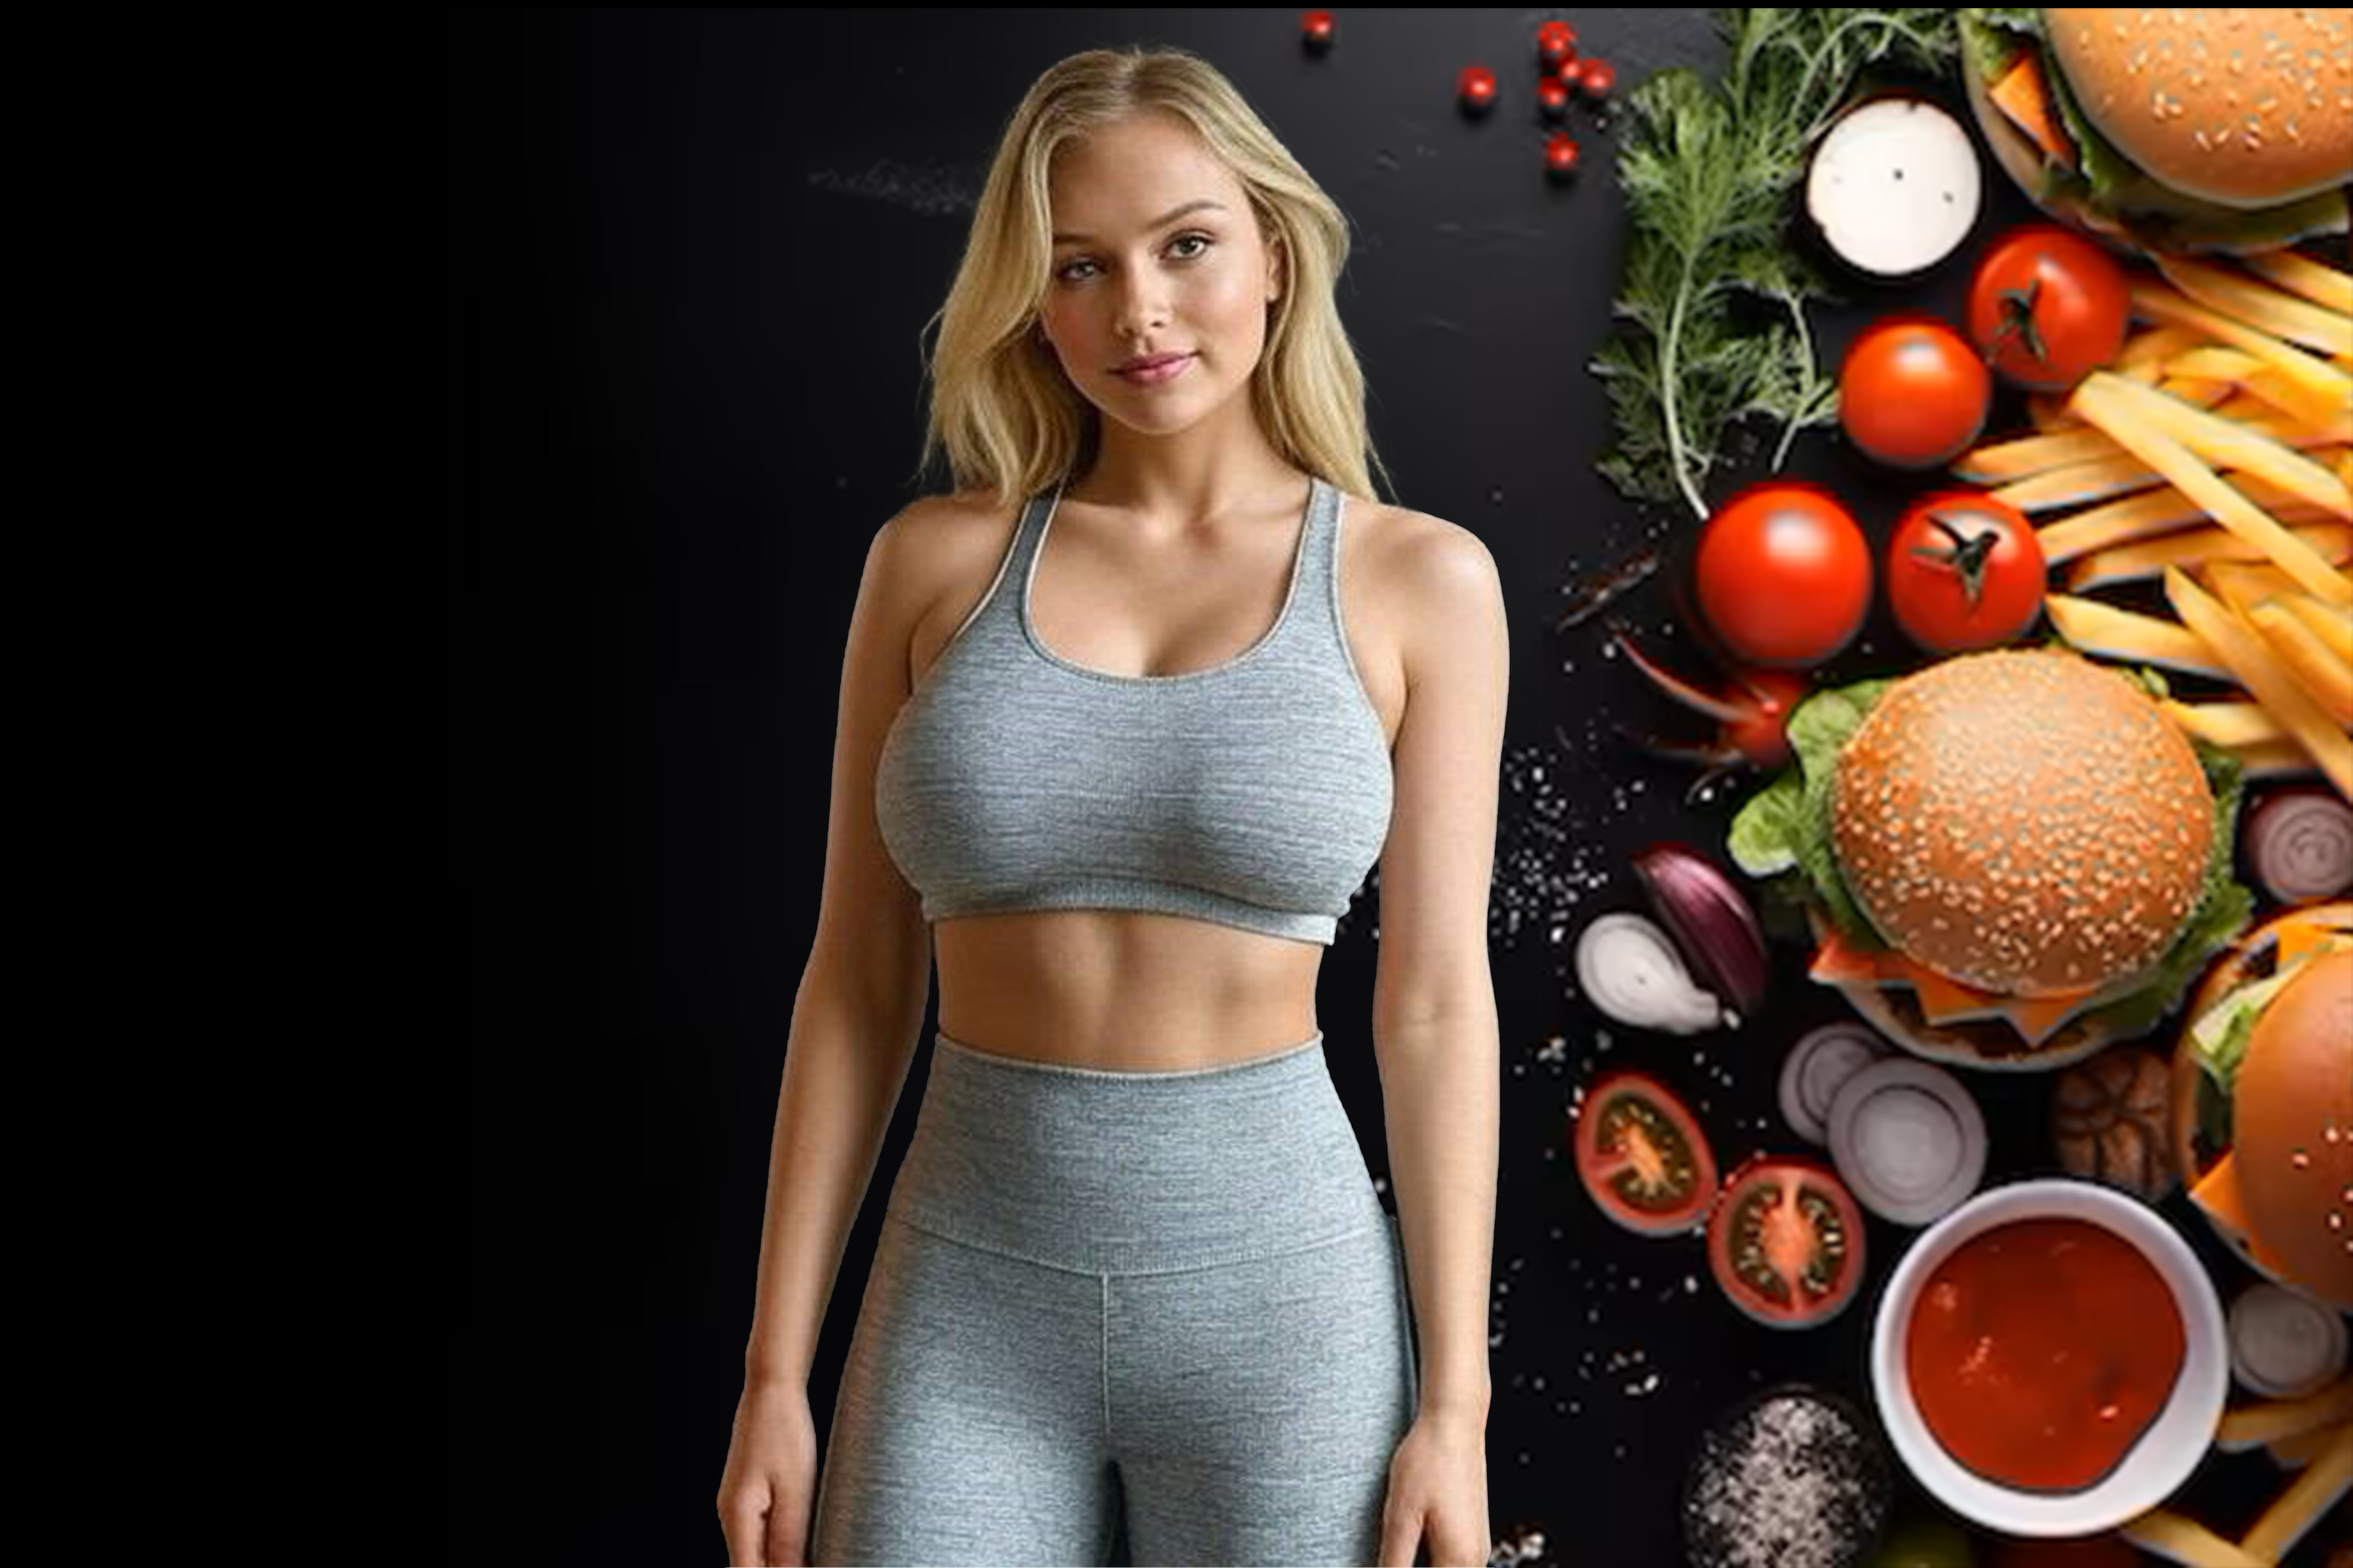
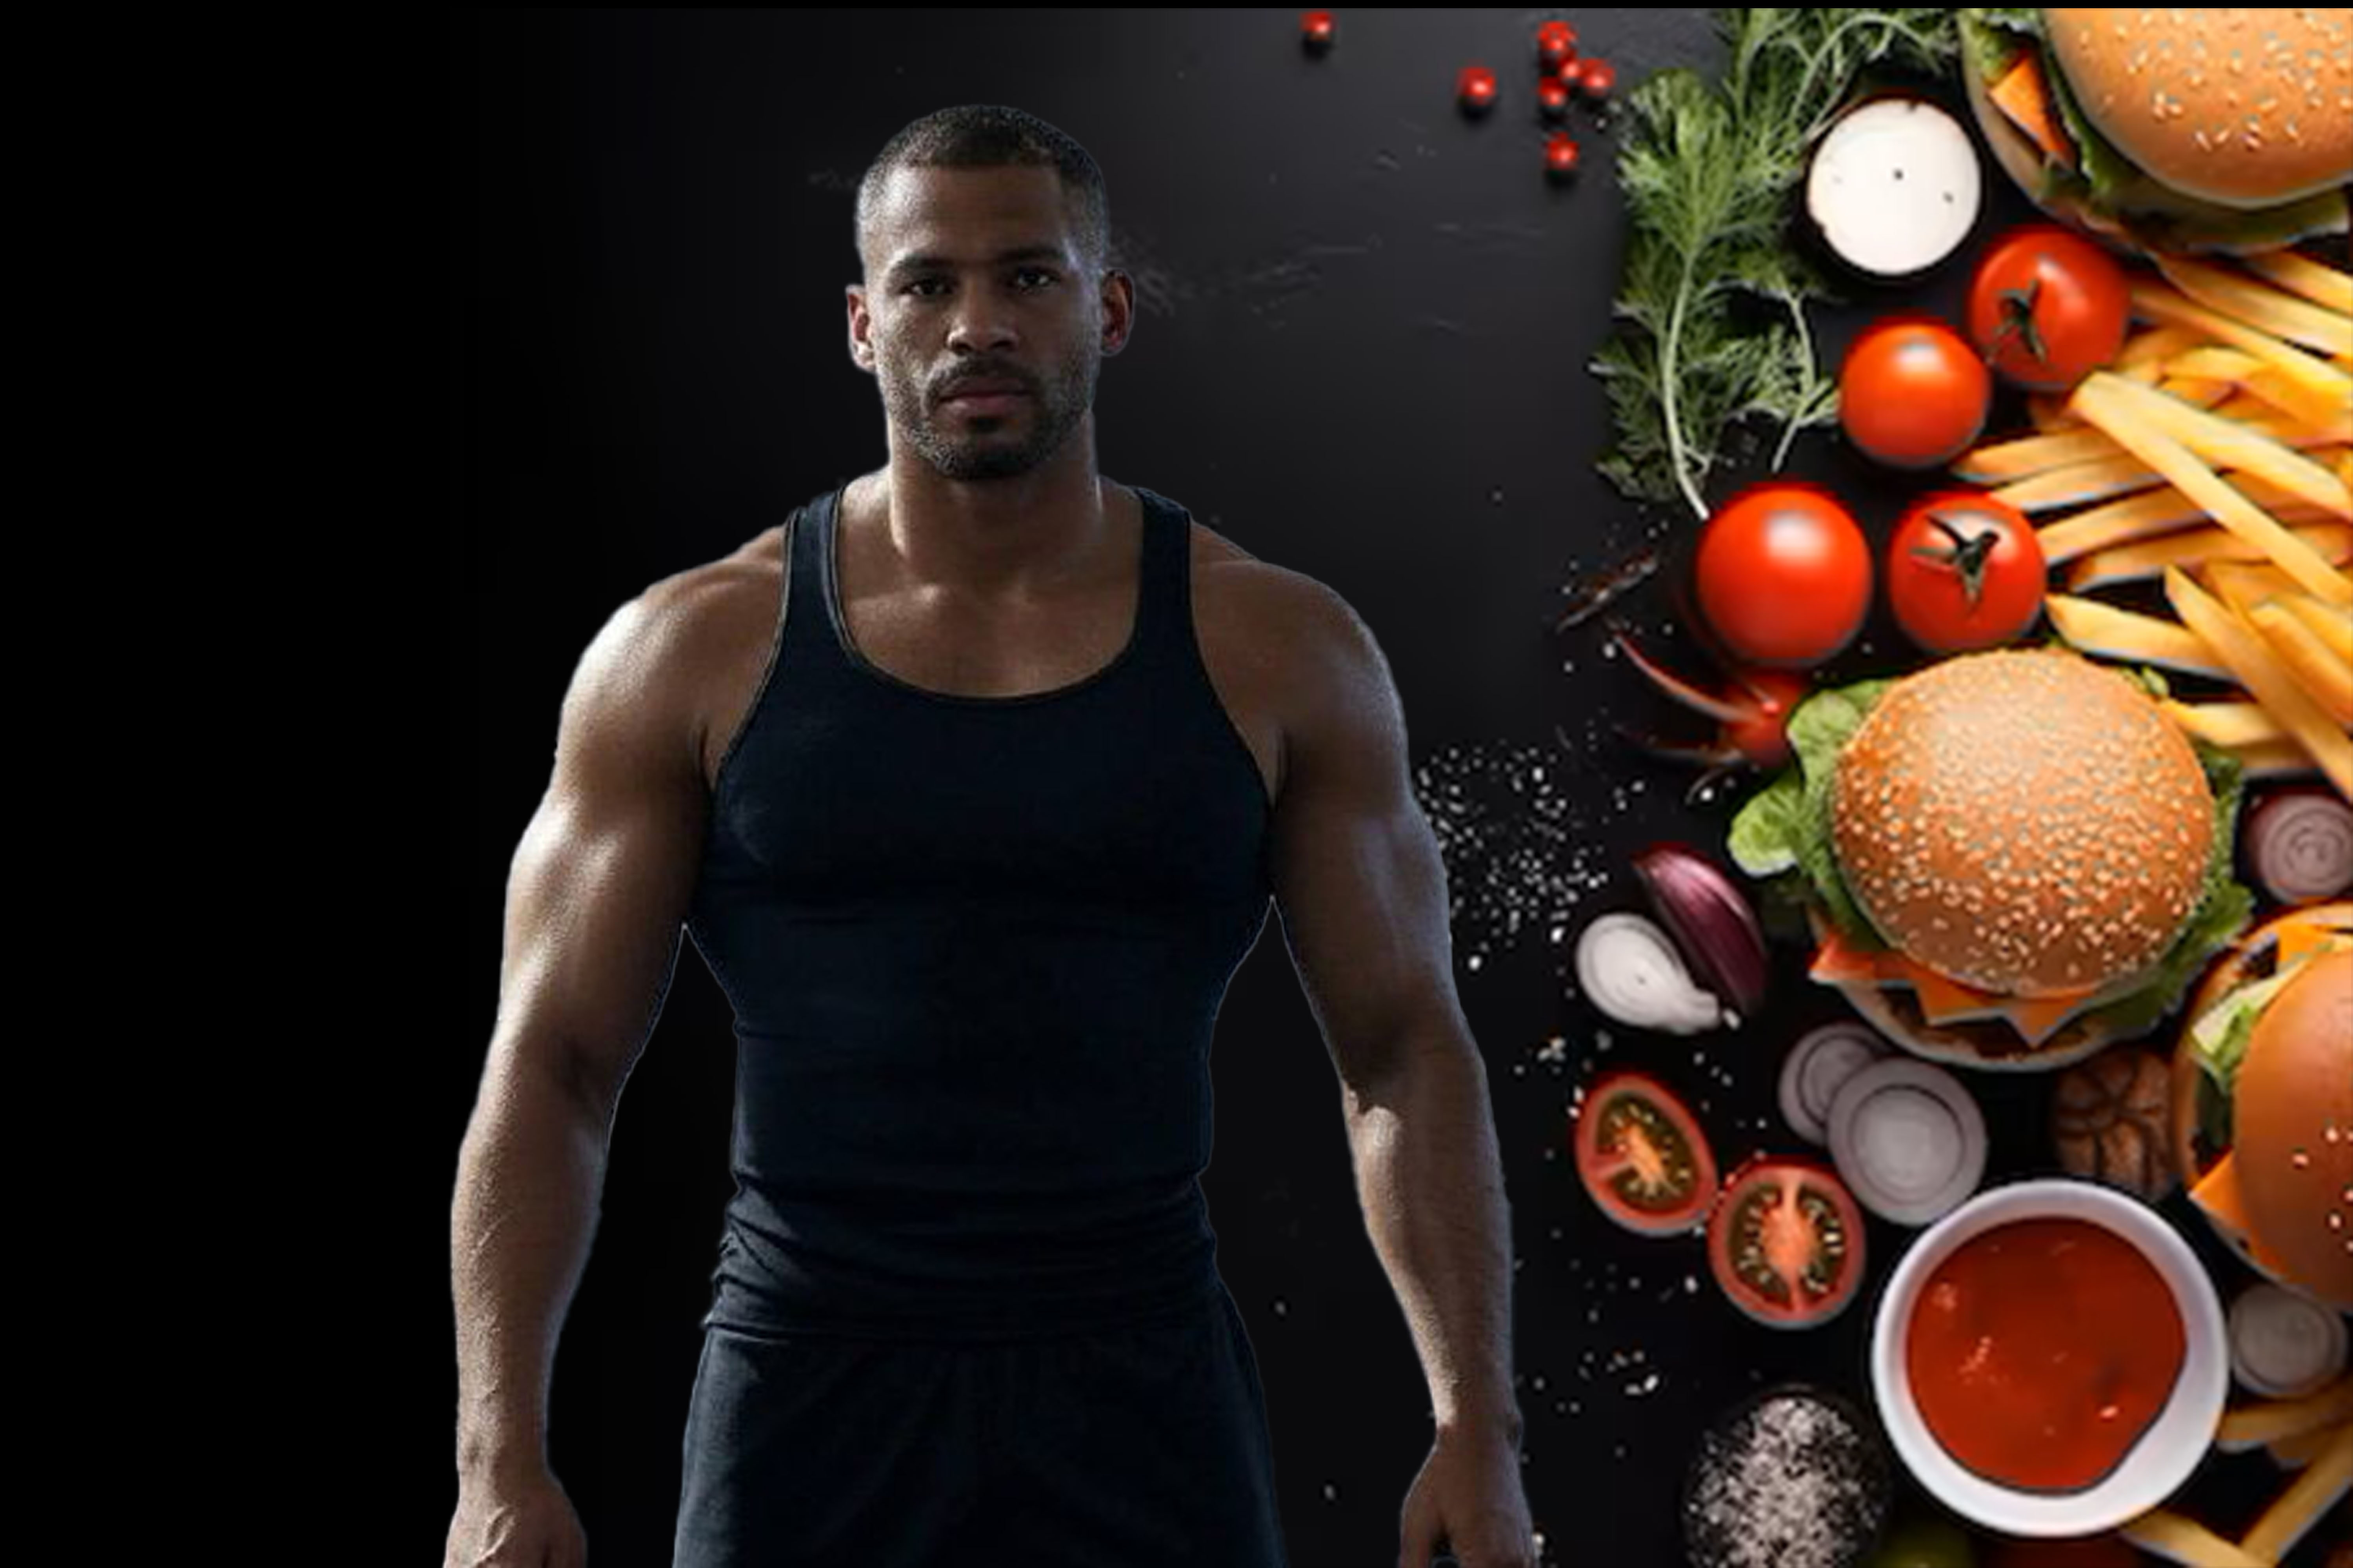
fix some features, slider on diet item, changed some img, training ui

Changed region(s): [[0.187, 0.0312, 0.6545, 1.0]]

diff --git a/gym_app/src/components/training_card_page_component/NewTrainingCardForm.tsx b/gym_app/src/components/training_card_page_component/NewTrainingCardForm.tsx
@@ -190,7 +190,7 @@ export default function NewTrainingCardForm({ onClose, onNewTraining }: NewTrain
                                                     />
                                                 </div>
                                                 <div className="flex flex-col w-1/2 justify-center items-center">
-                                                    <label className="text-[#f8bf58] uppercase font-bold text-md select-none" htmlFor={`reps-${dayIndex}-0`}>
+                                                    <label className="text-[#f8bf58] uppercase font-bold text-md select-none text-center" htmlFor={`reps-${dayIndex}-0`}>
                                                         {day.exercises[0].isCardio ? 'Distance (km)*' : 'Reps*'}
                                                     </label>
                                                     <input
@@ -323,8 +323,8 @@ export default function NewTrainingCardForm({ onClose, onNewTraining }: NewTrain
                                                                 />
                                                             </div>
                                                             <div className="flex flex-col w-1/2 justify-center items-center">
-                                                                <label className="text-[#f8bf58] uppercase font-bold text-md select-none" htmlFor={`reps-${dayIndex}-${exerciseIndex}`}>
-                                                                    {exercise.isCardio ? 'Distance (km)' : 'Reps'}
+                                                                <label className="text-[#f8bf58] uppercase font-bold text-md select-none text-center" htmlFor={`reps-${dayIndex}-${exerciseIndex}`}>
+                                                                    {exercise.isCardio ? 'km' : 'Reps'}
                                                                 </label>
                                                                 <input
                                                                     id={`reps-${dayIndex}-${exerciseIndex}`}
@@ -407,7 +407,6 @@ export default function NewTrainingCardForm({ onClose, onNewTraining }: NewTrain
                                     )}
                                 </div>
                             )}
-                            {/* ciao */}
                             <PlusButton text="add new exercise" onClick={() => {
                                 const updatedDays = [...workoutDays];
                                 const newExerciseIndex = updatedDays[dayIndex].exercises.length;
@@ -425,6 +424,7 @@ export default function NewTrainingCardForm({ onClose, onNewTraining }: NewTrain
                                 });
                                 setWorkoutDays(updatedDays);
                             }} />
+                            {!isFormValid() ? <div className="w-full flex justify-center items-center"><p className="text-red-500 font-bold text-sm text-center italic">*one or more necessary fields are not compiled correctly*</p></div> : null}
                         </div>
                     ))}
                     <PlusButton text='add new muscle group' onClick={addWorkoutDay} />

diff --git a/gym_app/src/components/diet_page_component/AddItemButtonSlider.tsx b/gym_app/src/components/diet_page_component/AddItemButtonSlider.tsx
@@ -79,7 +79,11 @@ export default function AddItemButtonSlider({ latestDiet, dayOfWeek, meal, diets
                     />,
                     document.body
                 )}
-                <div className="flex flex-wrap gap-4 justify-center items-center p-1">
+                <div className="flex flex-wrap gap-4 justify-center items-center p-1 overflow-y-auto  [&::-webkit-scrollbar]:w-2
+                        [&::-webkit-scrollbar-track]:rounded-full
+                        [&::-webkit-scrollbar-track]:bg-black
+                        [&::-webkit-scrollbar-thumb]:rounded-full
+                        [&::-webkit-scrollbar-thumb]:bg-gray-100 h-[200px]">
                     {items.map((item, index) => (
                         <RemovibleItems
                             key={index}

diff --git a/gym_app/src/app/globals.css b/gym_app/src/app/globals.css
@@ -18,4 +18,3 @@ body {
 
 
 
-
